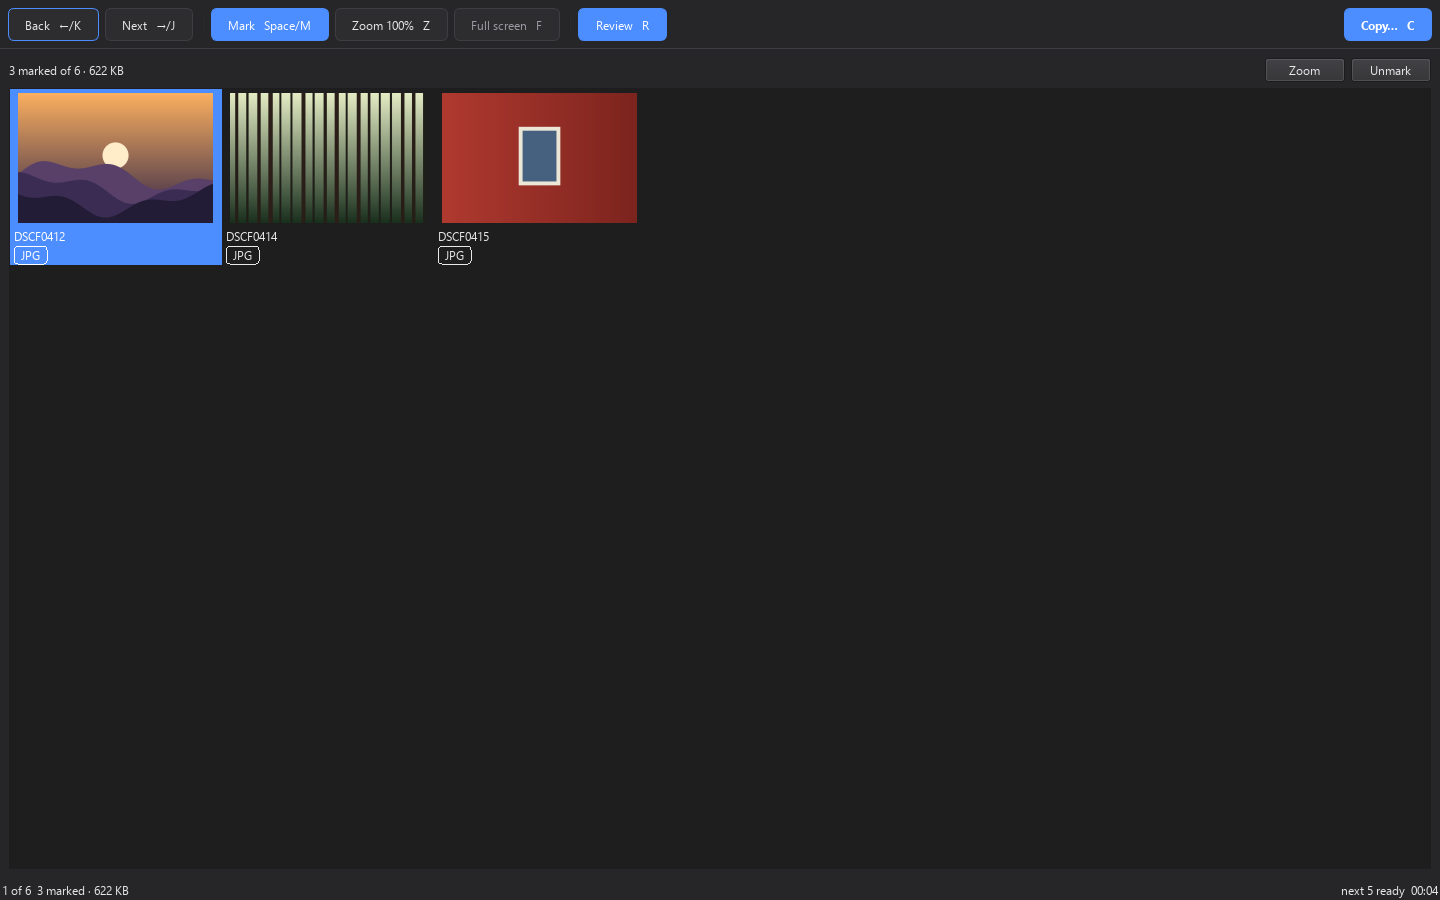
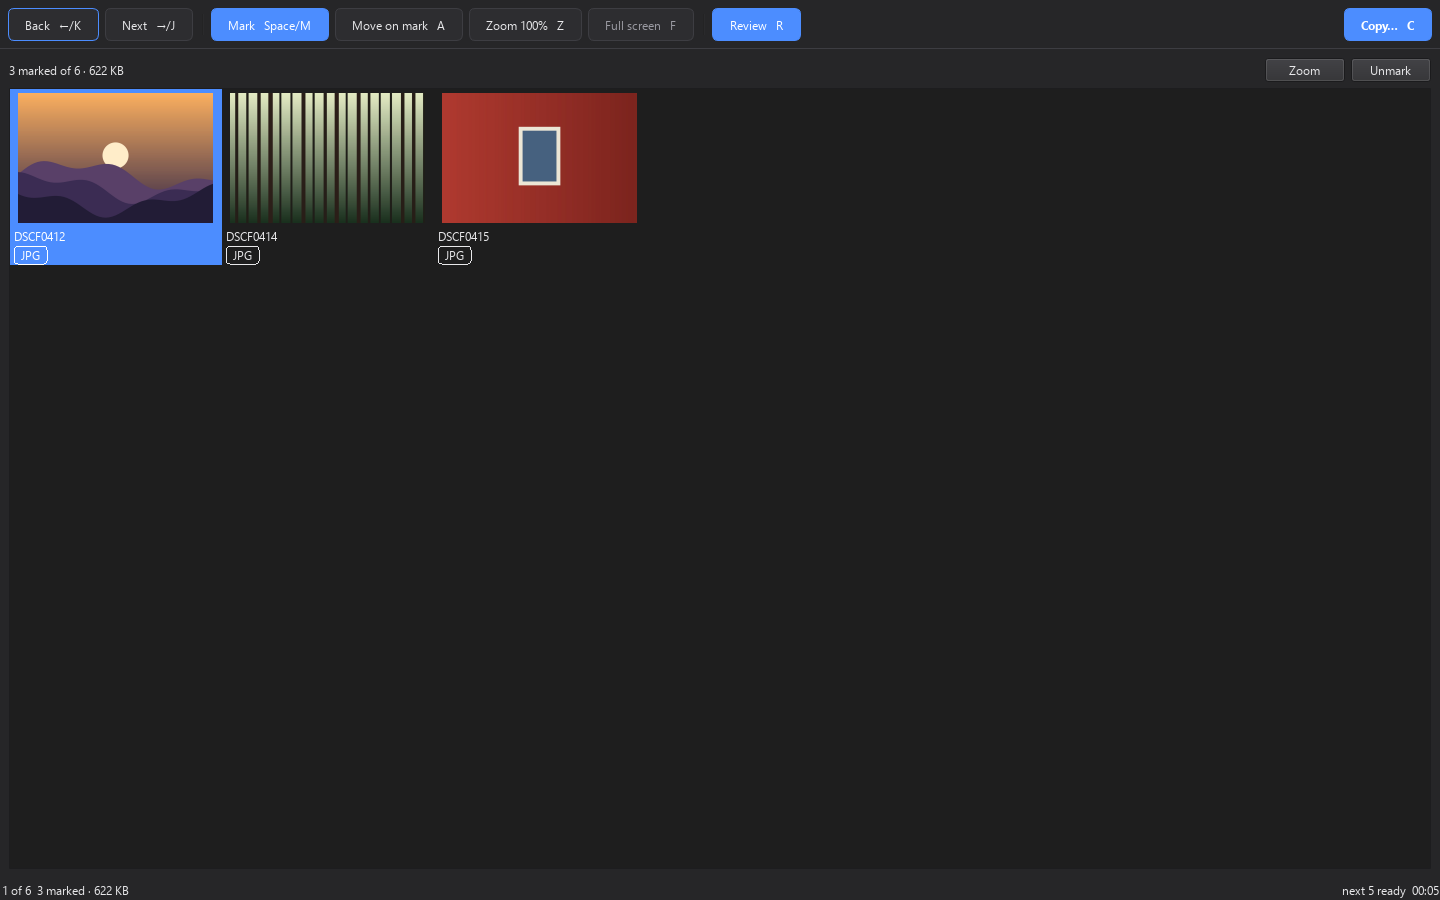
0.2.0: "move on mark", a toggle: marking a picture shows the next one
- A key / "Move on mark" toolbar button, remembered between runs
  (QSettings; SPUZA_SETTINGS_FILE overrides the store, the suite uses a
  file per test so nothing reaches the registry or plist).
- Only a mark advances; an unmark stays so the decision is visible; the
  last picture stays; nothing moves while the review page is shown.
- A is a window shortcut so it works with the review grid focused (a
  QListView swallows printable keys); a held Space/M marks one picture,
  never a run, and a held A does not flip the preference.
- README: ASCII banner, the new key and feature line; screenshots
  regenerated for the wider toolbar.

Changed region(s): [[0.3438, 0.0, 0.5625, 0.0622], [0.9375, 0.9644, 1.0, 0.9956], [0.25, 0.0, 0.2812, 0.0311]]

diff --git a/tests/test_ui_window.py b/tests/test_ui_window.py
@@ -2,6 +2,7 @@
 
 from __future__ import annotations
 
+import os
 import threading
 import time
 from pathlib import Path
@@ -9,6 +10,7 @@ from pathlib import Path
 import pytest
 from PIL import Image
 from PySide6.QtCore import QObject, Qt, Signal
+from PySide6.QtGui import QKeyEvent
 from PySide6.QtTest import QTest
 from PySide6.QtWidgets import QApplication, QWidget
 
@@ -103,7 +105,7 @@ def test_keys_move_index_and_status(win):
 
 def test_toolbar_has_every_key_with_its_cap(win):
     caps = {n: b.cap for n, b in win.buttons.items()}
-    assert caps == {"back": "←/K", "next": "→/J", "mark": "Space/M", "zoom": "Z",
+    assert caps == {"back": "←/K", "next": "→/J", "mark": "Space/M", "advance": "A", "zoom": "Z",
                     "fullscreen": "F", "review": "R", "copy": "C"}
     assert win.buttons["zoom"].text().startswith("Zoom 100%")
     for b in win.buttons.values():
@@ -339,3 +341,89 @@ def test_message_outside_bleed_goes_to_status_bar(win):
     key(win, Qt.Key_C)
     assert "marked" in win.statusBar().currentMessage().lower()
     assert win.viewer.strip.note.isHidden()
+
+
+# -- move on mark ---------------------------------------------------------------------------------
+def test_move_on_mark_is_off_by_default_and_marking_stays(win):
+    assert not win.advance_on_mark and not win.buttons["advance"].isChecked()
+    key(win, Qt.Key_Space)
+    assert win.catalog.is_marked(0) and win.catalog.index == 0
+
+
+def test_a_toggles_move_on_mark_and_says_so(win):
+    key(win, Qt.Key_A)
+    assert win.advance_on_mark and win.buttons["advance"].isChecked()
+    assert win.last_message.startswith("Move on mark: on")
+    key(win, Qt.Key_A)
+    assert not win.advance_on_mark and not win.buttons["advance"].isChecked()
+    assert win.last_message == "Move on mark: off"
+    win.buttons["advance"].click()
+    assert win.advance_on_mark and win.buttons["advance"].isChecked()
+
+
+def test_marking_moves_on_but_unmarking_does_not(win):
+    key(win, Qt.Key_A)
+    key(win, Qt.Key_Space)  # marks 0, shows 1
+    assert win.catalog.is_marked(0) and win.catalog.index == 1
+    key(win, Qt.Key_M)  # marks 1, shows 2
+    assert win.catalog.is_marked(1) and win.catalog.index == 2
+    key(win, Qt.Key_Left)  # back to 1 ...
+    key(win, Qt.Key_Space)  # ... unmark it: stays, so the decision is visible
+    assert not win.catalog.is_marked(1) and win.catalog.index == 1
+    assert win.lbl_marked.text().startswith("1 marked")
+
+
+def test_marking_the_last_picture_stays_on_it(win):
+    key(win, Qt.Key_A)
+    win.go_to(5)
+    key(win, Qt.Key_Space)
+    assert win.catalog.is_marked(5) and win.catalog.index == 5
+
+
+def test_mark_button_click_also_moves_on(win):
+    key(win, Qt.Key_A)
+    win.buttons["mark"].click()
+    assert win.catalog.is_marked(0) and win.catalog.index == 1
+
+
+def test_move_on_mark_does_not_move_the_viewer_from_review(win):
+    key(win, Qt.Key_A)
+    key(win, Qt.Key_Space)  # mark 0 -> on 1
+    key(win, Qt.Key_R)  # the fake review ignores keys; the hidden viewer must not move either
+    key(win, Qt.Key_Space)
+    assert win.stack.currentIndex() == 1 and win.catalog.index == 1
+    win.toggle_mark()  # even a direct call while review is up marks in place, no advance
+    assert win.catalog.is_marked(1) and win.catalog.index == 1
+    key(win, Qt.Key_A)  # the toggle itself is a window shortcut: works from review (real grid: controls test)
+    assert win.stack.currentIndex() == 1 and not win.advance_on_mark
+
+
+def test_held_space_marks_one_picture_not_a_run(win):
+    key(win, Qt.Key_A)
+    key(win, Qt.Key_Space)  # the real press: marks 0, shows 1
+    for _ in range(4):  # the OS repeats while the key is held
+        QApplication.sendEvent(win, QKeyEvent(QKeyEvent.Type.KeyPress, Qt.Key_Space,
+                                              Qt.KeyboardModifier.NoModifier, " ", True, 1))
+    assert win.catalog.marked_count == 1 and win.catalog.index == 1
+    for _ in range(3):  # a held A does not flip the preference either
+        QApplication.sendEvent(win, QKeyEvent(QKeyEvent.Type.KeyPress, Qt.Key_A,
+                                              Qt.KeyboardModifier.NoModifier, "a", True, 1))
+    assert win.advance_on_mark
+
+
+def test_move_on_mark_persists_across_windows(clock):
+    cat = Catalog(PICS)
+    pf = Prefetcher(cat, loader=fake_loader)
+    w = MainWindow(cat, pf, ROOT, clock=clock)
+    w.set_advance_on_mark(True)
+    w.close()
+    w.deleteLater()
+    QTest.qWait(0)
+    assert "advance_on_mark=true" in Path(os.environ["SPUZA_SETTINGS_FILE"]).read_text()  # on disk, not
+    cat2 = Catalog(PICS)                                                                   # a shared cache
+    pf2 = Prefetcher(cat2, loader=fake_loader)
+    w2 = MainWindow(cat2, pf2, ROOT, clock=clock)
+    try:
+        assert w2.advance_on_mark and w2.buttons["advance"].isChecked()
+    finally:
+        w2.close()

diff --git a/src/spuza/ui/window.py b/src/spuza/ui/window.py
@@ -16,7 +16,7 @@ from PySide6.QtWidgets import (QApplication, QHBoxLayout, QLabel, QMainWindow, Q
                                QStackedWidget, QToolBar, QToolButton, QVBoxLayout, QWidget)
 
 from spuza.copy import human_size
-from spuza.ui import theme
+from spuza.ui import settings, theme
 from spuza.ui.filmstrip import Filmstrip
 from spuza.ui.inspector import Inspector
 from spuza.ui.viewer import Viewer
@@ -30,6 +30,7 @@ BUTTONS = [
     ("back", "Back", "←/K", False),
     ("next", "Next", "→/J", False),
     ("mark", "Mark", "Space/M", True),
+    ("advance", "Move on mark", "A", True),
     ("zoom", "Zoom 100%", "Z", True),
     ("fullscreen", "Full screen", "F", True),
     ("review", "Review", "R", True),
@@ -111,9 +112,11 @@ class Sidebar(QWidget):
 class MainWindow(QMainWindow):
     step_timed = Signal(int, float)  # picture index, ms from key handled to its pixmap set
 
-    def __init__(self, catalog, prefetcher, root, clock=time.monotonic, parent=None):
+    def __init__(self, catalog, prefetcher, root, clock=time.monotonic, parent=None, prefs=None):
         super().__init__(parent)
         self.catalog, self.prefetcher, self.root = catalog, prefetcher, Path(root)
+        self.prefs = prefs if prefs is not None else settings.open_settings()
+        self.advance_on_mark = settings.read_bool(self.prefs, settings.ADVANCE_ON_MARK, False)
         self.clock, self._t_open = clock, clock()
         self.review_factory = None
         self.copy_sheet_factory = None
@@ -152,6 +155,7 @@ class MainWindow(QMainWindow):
         b["back"].clicked.connect(lambda: self._control(Qt.Key_Left, lambda: self.step(-1)))
         b["next"].clicked.connect(lambda: self._control(Qt.Key_Right, lambda: self.step(1)))
         b["mark"].clicked.connect(lambda: self._control(Qt.Key_Space, self.toggle_mark))
+        b["advance"].clicked.connect(lambda: self.set_advance_on_mark(not self.advance_on_mark))
         b["zoom"].clicked.connect(lambda: self._control(Qt.Key_Z, self.viewer.toggle_zoom))
         b["fullscreen"].clicked.connect(lambda: self.set_bleed(not self.is_bleed))
         b["review"].clicked.connect(lambda: self.toggle_review())
@@ -191,6 +195,9 @@ class MainWindow(QMainWindow):
         self.sidebar.show_marked.connect(self.open_review)
         QShortcut(QKeySequence(QKeySequence.StandardKey.FullScreen), self,
                   activated=lambda: self.set_bleed(not self.is_bleed))
+        advance = QShortcut(QKeySequence("A"), self, context=Qt.ShortcutContext.WindowShortcut,
+                            activated=lambda: self.set_advance_on_mark(not self.advance_on_mark))
+        advance.setAutoRepeat(False)  # a held A must not flip the preference back and forth
 
         self._tick = QTimer(self)  # elapsed clock; repeating, stopped in closeEvent
         self._tick.setInterval(1000)
@@ -198,6 +205,7 @@ class MainWindow(QMainWindow):
         self._tick.start()
 
         self.retheme()
+        self.buttons["advance"].setChecked(self.advance_on_mark)
         prefetcher.update(catalog.index)
         self._render_current()
 
@@ -225,9 +233,21 @@ class MainWindow(QMainWindow):
         if not len(self.catalog):
             return
         i = self.catalog.index
-        self.catalog.toggle_mark(i)
+        now_marked = self.catalog.toggle_mark(i)
         self.filmstrip.item_changed(i)
         self.refresh_marks()
+        if now_marked and self.advance_on_mark and self.stack.currentIndex() == 0:
+            self.step(1)  # "move on mark": a keeper is decided, show the next one (last picture: stays)
+
+    def set_advance_on_mark(self, on: bool, announce: bool = True) -> None:
+        """Toggle and persist "move on mark"; the toolbar button mirrors it."""
+        on = bool(on)
+        self.advance_on_mark = on
+        self.prefs.setValue(settings.ADVANCE_ON_MARK, on)
+        self.prefs.sync()
+        self.buttons["advance"].setChecked(on)
+        if announce:
+            self.say("Move on mark: on (marking shows the next picture)" if on else "Move on mark: off")
 
     # -- rendering --------------------------------------------------------------------------------
     def _render_current(self) -> None:
@@ -447,7 +467,8 @@ class MainWindow(QMainWindow):
             if k in GRID_KEYS and k != Qt.Key_Escape or k in (Qt.Key_J, Qt.Key_K):
                 return  # the grid ignored it (or a fake review did): never drive the hidden viewer
         if k in (Qt.Key_Space, Qt.Key_M):
-            self.toggle_mark()
+            if not e.isAutoRepeat():  # a held key marks one picture, never a run (move on mark would)
+                self.toggle_mark()
         elif k in (Qt.Key_Right, Qt.Key_J):
             self.step(1)
         elif k in (Qt.Key_Left, Qt.Key_K):

diff --git a/tests/test_ui_review_controls.py b/tests/test_ui_review_controls.py
@@ -25,10 +25,10 @@ ROOT = Path("/cards/X")
 
 # control -> behaviour while review is shown
 REVIEW_TABLE = {
-    "back": "grid", "next": "grid", "mark": "grid", "zoom": "grid",
+    "back": "grid", "next": "grid", "mark": "grid", "advance": "global", "zoom": "grid",
     "fullscreen": "disabled", "review": "global", "copy": "global",
     "sidebar:All": "global", "sidebar:Marked": "global",
-    "shortcut:F11": "disabled", "filmstrip": "grid",
+    "shortcut:F11": "disabled", "shortcut:A": "global", "filmstrip": "grid",
     "review:Unmark": "grid", "review:Zoom": "grid",
 }
 
@@ -143,6 +143,9 @@ def test_global_controls_stay_global(w):
     in_review(w)
     w.buttons["review"].click()
     assert w.stack.currentIndex() == 0
+    in_review(w)
+    w.buttons["advance"].click()  # a preference: toggles from anywhere, review stays, viewer does not move
+    assert w.advance_on_mark and w.stack.currentIndex() == 1 and w.catalog.index == 0
 
 
 def test_f11_shortcut_inert_in_review(w):
@@ -150,6 +153,17 @@ def test_f11_shortcut_inert_in_review(w):
     for s in w.findChildren(QShortcut):
         s.activated.emit()
     assert not w.is_bleed
+
+
+def test_a_toggles_move_on_mark_while_the_real_grid_has_focus(w):
+    in_review(w)
+    target = w._review_target()
+    assert target is w.review.view and target.hasFocus()
+    QTest.keyClick(target, Qt.Key_A)  # the list view would swallow a printable key; the window shortcut wins
+    assert w.advance_on_mark and w.buttons["advance"].isChecked()
+    assert w.stack.currentIndex() == 1 and w.catalog.index == 0
+    QTest.keyClick(target, Qt.Key_A)
+    assert not w.advance_on_mark
 
 
 def test_filmstrip_pick_selects_in_grid_when_marked_else_ignored(w):

diff --git a/src/spuza/ui/settings.py b/src/spuza/ui/settings.py
@@ -1,0 +1,29 @@
+"""Spuza's persisted preferences: one QSettings store, overridable for tests.
+
+Set SPUZA_SETTINGS_FILE to an .ini path to keep preferences out of the user's registry / plist
+(the test suite does, per test). Otherwise the platform store is used: the registry on Windows,
+~/Library/Preferences/com.fungimasters.Spuza.plist on macOS, ~/.config on Linux.
+"""
+
+from __future__ import annotations
+
+import os
+
+from PySide6.QtCore import QSettings
+
+ORG, APP = "fungimasters", "Spuza"
+ADVANCE_ON_MARK = "advance_on_mark"
+
+
+def open_settings() -> QSettings:
+    path = os.environ.get("SPUZA_SETTINGS_FILE")
+    if path:
+        return QSettings(path, QSettings.Format.IniFormat)
+    return QSettings(ORG, APP)
+
+
+def read_bool(s: QSettings, key: str, default: bool) -> bool:
+    v = s.value(key, default)
+    if isinstance(v, bool):
+        return v
+    return str(v).strip().lower() in ("1", "true", "yes", "on")

diff --git a/tests/conftest.py b/tests/conftest.py
@@ -24,6 +24,12 @@ RAF_NAME = "20250704_X-Pro2_9268.RAF"
 DNG_NAMES = [f"R00451{n}.DNG" for n in range(46, 51)]
 
 
+@pytest.fixture(autouse=True)
+def isolated_prefs(tmp_path, monkeypatch):
+    """Every test gets its own preferences file: nothing reaches the registry / plist, nothing leaks."""
+    monkeypatch.setenv("SPUZA_SETTINGS_FILE", str(tmp_path / "spuza-prefs.ini"))
+
+
 @pytest.fixture
 def real_set() -> Path:
     """The read-only folder of real camera files; never write inside it."""

diff --git a/README.md b/README.md
@@ -1,3 +1,11 @@
+<pre align="center">
+   _____ ____  __  _______   ___
+  / ___// __ \/ / / /__  /  /   |
+  \__ \/ /_/ / / / /  / /  / /| |
+ ___/ / ____/ /_/ /  / /__/ ___ |
+/____/_/    \____/  /____/_/  |_|
+</pre>
+
 <p align="center">
   <img src="docs/screenshot-cull.png" alt="Spuza culling a card: the picture, the filmstrip, the marked keepers" width="900">
 </p>
@@ -26,6 +34,7 @@ It opens the card, shows the first picture at once, and gets out of the way.
 
 - **Step** through the card with one key. The next pictures are already decoded, so a step takes about 10 ms.
 - **Mark** a keeper, keep going. Go back and mark later; nothing is lost.
+- **Move on mark**, if you like: with `A` on, marking a picture shows the next one, so a pass over the card is one key per frame.
 - **Review** every marked picture on one contact sheet. Unmark what did not survive a second look.
 - **Zoom** to 100% for the sharpness check. On a raw file this triggers a full decode in the background.
 - **Copy** the keepers to a folder on your drive. A raw file travels with its JPEG twin.
@@ -91,6 +100,7 @@ Spuza scans removable drives for a `DCIM` folder, or takes a folder on the comma
 | Key | Does |
 |---|---|
 | `Space` or `M` | mark / unmark the picture |
+| `A` | move on mark: on or off (marking then shows the next picture; remembered between runs) |
 | `→` or `J` | next picture |
 | `←` or `K` | previous picture |
 | `Z` | 100% zoom (full decode of a raw file runs in the background) |

diff --git a/SEND.md b/SEND.md
@@ -36,12 +36,12 @@ Build it here (Windows or Mac, any Python with uv):
 uv build
 ```
 
-That writes `dist/spuza-0.1.3-py3-none-any.whl` (about 40 KB, pure Python; the heavy parts,
+That writes `dist/spuza-0.2.0-py3-none-any.whl` (about 40 KB, pure Python; the heavy parts,
 PySide6 and rawpy, are fetched from PyPI at install time). Get the file onto the Mac
 (AirDrop, mail, USB), install `uv` as in 1, then:
 
 ```
-uv tool install --python 3.13 ~/Downloads/spuza-0.1.3-py3-none-any.whl
+uv tool install --python 3.13 ~/Downloads/spuza-0.2.0-py3-none-any.whl
 ```
 
 Update: send a new wheel and run the same line with `--force`.
